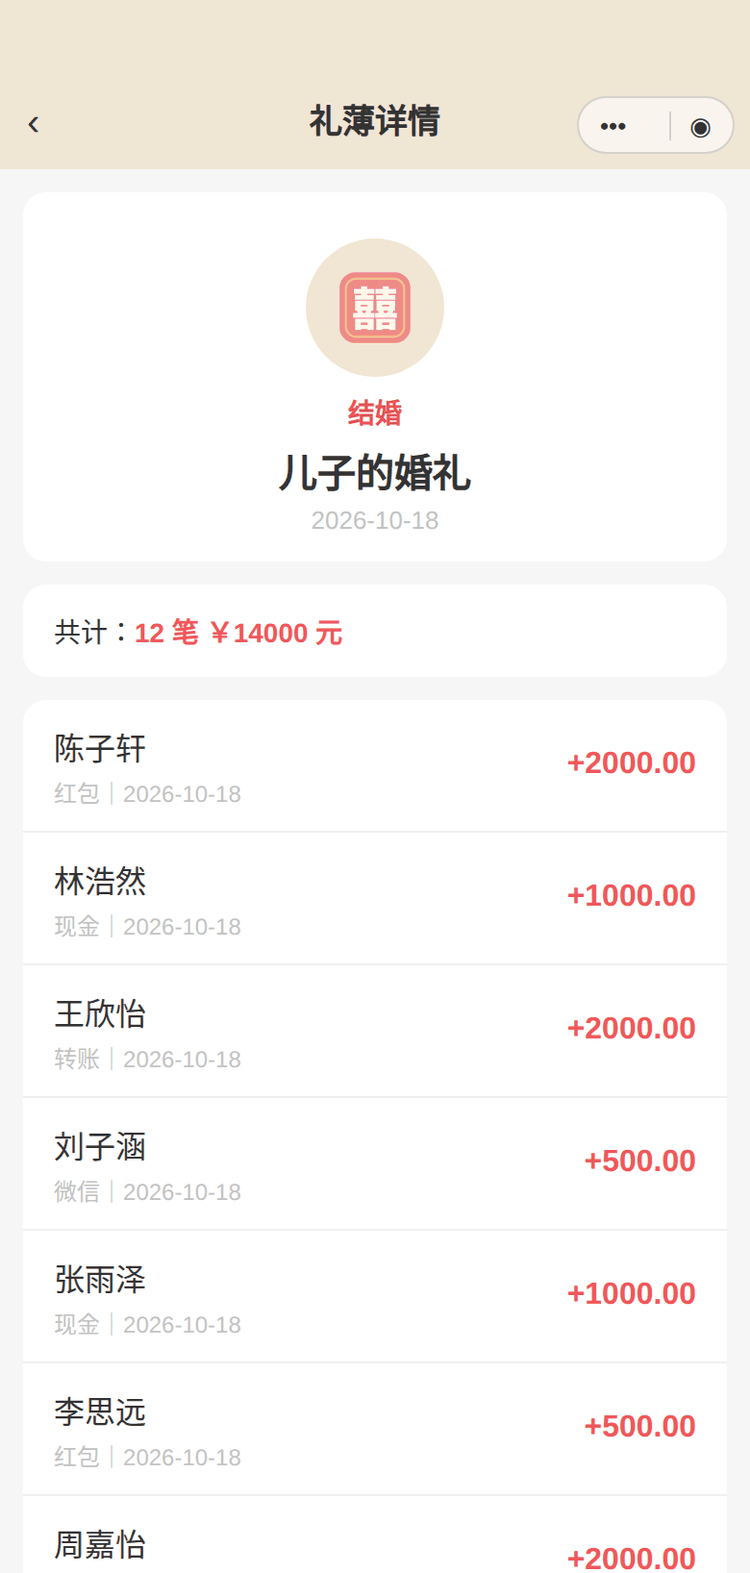
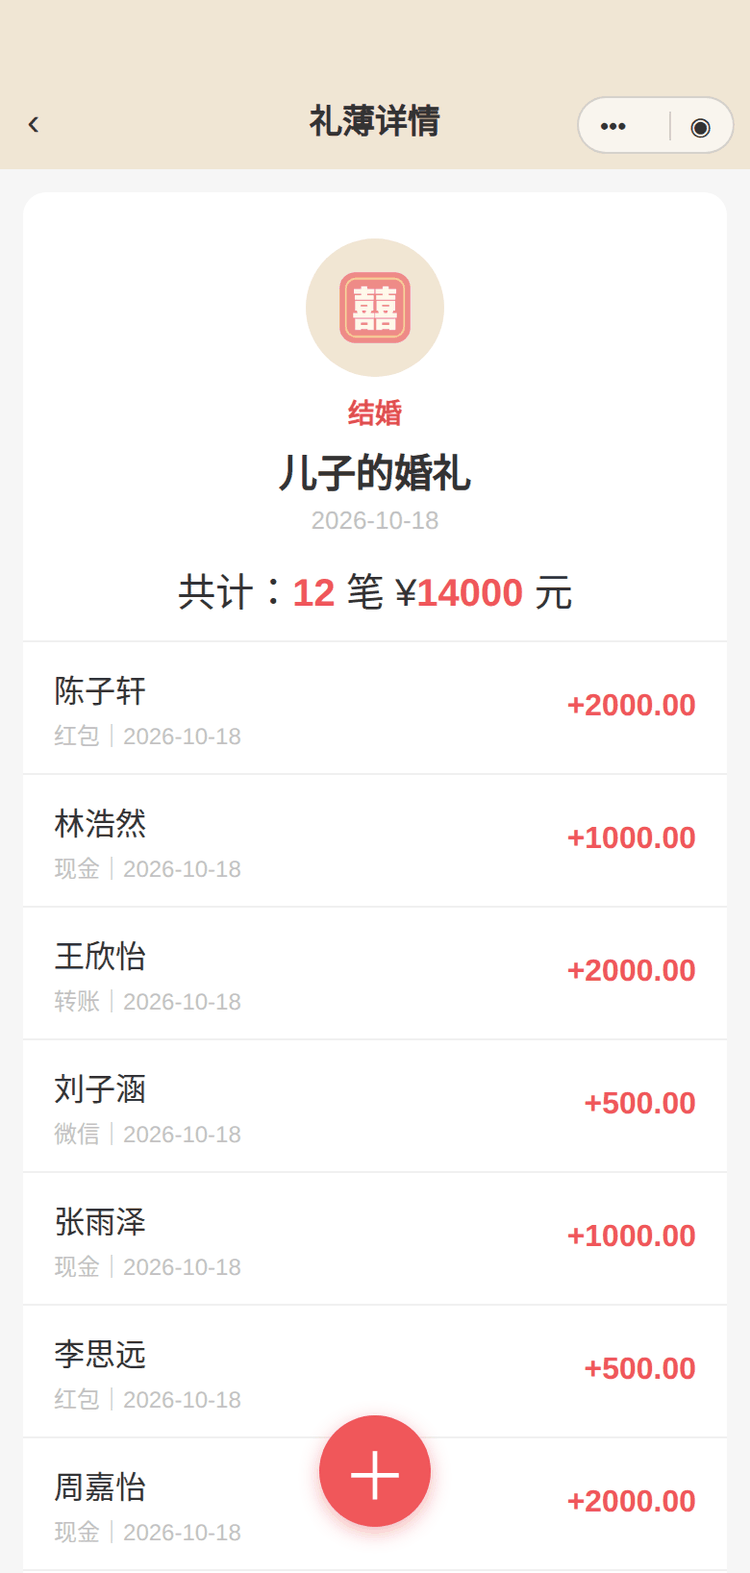
AH批引导图与真实页对齐：收礼详情加号改底部固定（原复刻放在列表后被全屏裁掉）、共计并入同一张卡居中大字、去掉真实页已取消的礼薄级删除/修改按钮；送礼页共计同样并入列表卡并补列表末尾「完」

diff --git a/docs/screens/guide-assets-src/receive-records.html b/docs/screens/guide-assets-src/receive-records.html
@@ -14,25 +14,24 @@ body { width:390px; height:818px; overflow:hidden; position:relative; background
 .card { background:#FFF; border-radius:12px; margin:12px; }
 .songti { font-family:-apple-system,"PingFang SC","Hiragino Sans GB","Microsoft YaHei",sans-serif; } /* 与真实页面同口径：全站黑体、无宋体（AA 清零后复刻同步） */
 .num { font-family:-apple-system,"PingFang SC","Hiragino Sans GB","Microsoft YaHei",sans-serif; }
-.pat-card { text-align:center; padding:24px 0 14px; }
+.pat-card { text-align:center; padding:24px 0 8px; }
 .pat-big { width:72px; height:72px; border-radius:50%; background:#F1E6D3; margin:0 auto; display:flex; align-items:center; justify-content:center; }
 .pat-big img { width:52px; height:52px; }
 .pat-name { font-size:14px; color:#E05353; font-weight:700; margin-top:8px; display:block; }
 .event-name { font-size:20px; font-weight:600; margin-top:6px; display:block; }
 .event-date { font-size:13px; color:#C2C2C2; margin-top:4px; display:block; }
-.summary { padding:14px 16px; font-size:14px; }
-.summary .red { color:#F0575A; font-weight:600; }
-.rec-row { display:flex; align-items:center; padding:12px 16px; min-height:60px; border-bottom:1px solid #F0F0F0; }
+.total-line { text-align:center; font-size:20px; padding:14px 16px 12px; color:#333; border-bottom:1px solid #F0F0F0; }
+.total-line .red { color:#F0575A; font-weight:600; }
+.list-end { display:flex; align-items:center; gap:10px; padding:17px 60px 19px; }
+.end-line { flex:1; height:1px; background:#F0F0F0; }
+.end-text { font-size:12px; color:#C2C2C2; }
+.rec-row { display:flex; align-items:center; text-align:left; padding:12px 16px; min-height:60px; border-bottom:1px solid #F0F0F0; }
 .rec-row:last-child { border-bottom:none; }
 .mid { flex:1; display:flex; flex-direction:column; }
 .nm { font-size:16px; font-weight:500; }
 .sub { font-size:12px; color:#C2C2C2; margin-top:3px; }
 .amt { font-size:16px; font-weight:600; color:#F0575A; }
-.fab-zone { position:relative; height:120px; }
-.fab { position:absolute; left:50%; margin-left:-29px; bottom:62px; width:58px; height:58px; border-radius:50%; background:#F0575A; color:#fff; font-size:34px; font-weight:300; display:flex; align-items:center; justify-content:center; box-shadow:0 3px 10px rgba(240,87,90,.45); }
-.bottom-btns { display:flex; gap:12px; margin:0 24px 26px; }
-.btn-outline { flex:1; height:56px; line-height:54px; background:#fff; color:#F0575A; border:1px solid #F0575A; text-align:center; font-size:17px; border-radius:28px; }
-.btn-primary { flex:1; height:56px; line-height:56px; background:#F0575A; color:#fff; text-align:center; font-size:17px; border-radius:28px; }
+.fab { position:absolute; left:50%; margin-left:-29px; bottom:24px; width:58px; height:58px; border-radius:50%; background:#F0575A; color:#fff; font-size:34px; font-weight:300; display:flex; align-items:center; justify-content:center; box-shadow:0 3px 10px rgba(240,87,90,.45); }
 </style></head><body>
 <div class="nav"><div class="back">‹</div><div class="title">礼薄详情</div><div class="capsule"><span>•••</span><span style="border-left:1px solid rgba(0,0,0,.15);padding-left:10px">◉</span></div></div>
 
@@ -41,11 +40,7 @@ body { width:390px; height:818px; overflow:hidden; position:relative; background
   <span class="pat-name songti">结婚</span>
   <span class="event-name songti">儿子的婚礼</span>
   <span class="event-date num">2026-10-18</span>
-</div>
-
-<div class="card summary"><span>共计：</span><span class="red num">12 笔 ￥14000 元</span></div>
-
-<div class="card">
+  <div class="total-line">共计：<span class="red num">12</span> 笔 ¥<span class="red num">14000</span> 元</div>
   <div class="rec-row"><div class="mid"><span class="nm songti">陈子轩</span><span class="sub">红包｜<span class="num">2026-10-18</span></span></div><span class="amt num">+2000.00</span></div>
   <div class="rec-row"><div class="mid"><span class="nm songti">林浩然</span><span class="sub">现金｜<span class="num">2026-10-18</span></span></div><span class="amt num">+1000.00</span></div>
   <div class="rec-row"><div class="mid"><span class="nm songti">王欣怡</span><span class="sub">转账｜<span class="num">2026-10-18</span></span></div><span class="amt num">+2000.00</span></div>
@@ -58,8 +53,8 @@ body { width:390px; height:818px; overflow:hidden; position:relative; background
   <div class="rec-row"><div class="mid"><span class="nm songti">徐俊杰</span><span class="sub">微信｜<span class="num">2026-10-18</span></span></div><span class="amt num">+1000.00</span></div>
   <div class="rec-row"><div class="mid"><span class="nm songti">孙晓彤</span><span class="sub">现金｜<span class="num">2026-10-18</span></span></div><span class="amt num">+2000.00</span></div>
   <div class="rec-row"><div class="mid"><span class="nm songti">马文博</span><span class="sub">支付宝｜<span class="num">2026-10-18</span></span></div><span class="amt num">+500.00</span></div>
+  <div class="list-end"><div class="end-line"></div><span class="end-text">完</span><div class="end-line"></div></div>
 </div>
 
-<div class="fab-zone"><div class="fab">＋</div></div>
-<div class="bottom-btns"><div class="btn-outline">删除</div><div class="btn-primary">修改</div></div>
+<div class="fab">＋</div>
 </body></html>

diff --git a/docs/screens/guide-assets-src/gifts.html b/docs/screens/guide-assets-src/gifts.html
@@ -15,8 +15,11 @@ body { width:390px; height:818px; overflow:hidden; position:relative; background
 .searchbar { display:flex; align-items:center; padding:10px 12px 2px; }
 .searchbox { flex:1; background:#F2F2F2; border-radius:17px; height:34px; display:flex; align-items:center; padding:0 14px; color:#C2C2C2; font-size:14px; }
 .search-cancel { color:#F0575A; font-size:14px; margin-left:8px; white-space:nowrap; }
-.summary { padding:14px 16px; font-size:14px; }
-.summary .red { color:#F0575A; font-weight:600; }
+.total-line { text-align:center; font-size:20px; padding:14px 16px 12px; color:#333; border-bottom:1px solid #F0F0F0; }
+.total-line .red { color:#F0575A; font-weight:600; }
+.list-end { display:flex; align-items:center; gap:10px; padding:17px 60px 19px; }
+.end-line { flex:1; height:1px; background:#F0F0F0; }
+.end-text { font-size:12px; color:#C2C2C2; }
 .gift-row { display:flex; align-items:center; padding:12px 16px; min-height:68px; border-bottom:1px solid #F0F0F0; }
 .gift-row:last-child { border-bottom:none; }
 .pat { width:44px; height:44px; border-radius:50%; background:#F5F6F4; display:flex; align-items:center; justify-content:center; flex:none; }
@@ -36,15 +39,15 @@ body { width:390px; height:818px; overflow:hidden; position:relative; background
 
 <div class="searchbar"><div class="searchbox">搜索姓名</div><span class="search-cancel">取消</span></div>
 
-<div class="card summary"><span>共计：</span><span class="red">6 笔 ￥6000 元</span></div>
-
 <div class="card">
+  <div class="total-line">共计：<span class="red">6</span> 笔 ¥<span class="red">6000</span> 元</div>
   <div class="gift-row"><div class="pat"><img src="../../../miniprogram/icons/01-jiehun.svg"></div><div class="mid"><span class="nm songti">赵子墨</span><span class="sub">结婚｜2026-10-11</span></div><span class="amt">-2000.00</span></div>
   <div class="gift-row"><div class="pat"><img src="../../../miniprogram/icons/07-qiaoqian.svg"></div><div class="mid"><span class="nm songti">钱佳怡</span><span class="sub">乔迁｜2026-09-26</span></div><span class="amt">-1000.00</span></div>
   <div class="gift-row"><div class="pat"><img src="../../../miniprogram/icons/02-shengzi.svg"></div><div class="mid"><span class="nm songti">沈一鸣</span><span class="sub">生子｜2026-09-12</span></div><span class="amt">-1000.00</span></div>
   <div class="gift-row"><div class="pat"><img src="../../../miniprogram/icons/05-shengri.svg"></div><div class="mid"><span class="nm songti">韩雨桐</span><span class="sub">生日｜2026-08-30</span></div><span class="amt">-500.00</span></div>
   <div class="gift-row"><div class="pat"><img src="../../../miniprogram/icons/06-shengxue.svg"></div><div class="mid"><span class="nm songti">杨晨曦</span><span class="sub">升学｜2026-08-22</span></div><span class="amt">-1000.00</span></div>
   <div class="gift-row"><div class="pat"><img src="../../../miniprogram/icons/09-baishi.svg"></div><div class="mid"><span class="nm songti">何子睿</span><span class="sub">白事｜2026-06-28</span></div><span class="amt">-500.00</span></div>
+  <div class="list-end"><div class="end-line"></div><span class="end-text">完</span><div class="end-line"></div></div>
 </div>
 
 <div class="fab-zone"><div class="fab">＋</div></div>

diff --git a/tests/test-batch-ah.js b/tests/test-batch-ah.js
@@ -43,9 +43,12 @@ const read = (p) => fs.readFileSync(p, 'utf8');
   assert(recvNames.every((n) => !giftNames.includes(n)), '收礼与送礼人名不得重名（用户定）');
   assert((tl.match(/<div class="trow">/g) || []).length === 3, '竖线树共 3 条（用户定 3-4 条、去掉儿子的婚礼）');
   assert(tl.includes('女儿的升学宴') && tl.includes('周小梅'), '竖线树收礼用亲人称谓事件命名、联系人周小梅');
+  assert(recv.includes('class="total-line"') && recv.includes('>12</span>') && recv.includes('>14000</span>'), '收礼图共计并入头部卡（与真实页一致）');
+  assert(!recv.includes('bottom-btns') && !recv.includes('fab-zone'), '收礼图无已取消的礼薄级删除/修改按钮、加号为底部固定');
+  assert(recv.includes('<div class="fab">＋</div>'), '收礼图有底部固定红色加号（真实页 fab-low）');
   for (const src of [recv, gifts, tl]) assert(!src.includes('600.00') && !src.includes('-600'), '引导图金额不用 600（用户定：500/1000/2000/5000/10000）');
   assert((gifts.match(/<div class="gift-row">/g) || []).length === 6, '送礼图 6 条（用户定：名单不要太多、不必满屏）');
-  assert(gifts.includes('6 笔 ￥6000 元'), '送礼图共计 6 笔 6000 元');
+  assert(gifts.includes('class="total-line"') && gifts.includes('>6</span>') && gifts.includes('>6000</span>'), '送礼图共计并入列表卡（与真实页一致）6 笔 6000 元');
   const tamts = [...tl.matchAll(/class="tamt">([+-][0-9.]+)</g)].map((m) => parseFloat(m[1]));
   assert(tamts.every((a) => Math.abs(a) === 1000 || Math.abs(a) === 2000), '竖线树金额只许 1000/2000（用户定）');
   const outSum = -tamts.filter((a) => a < 0).reduce((x, y) => x + y, 0);
